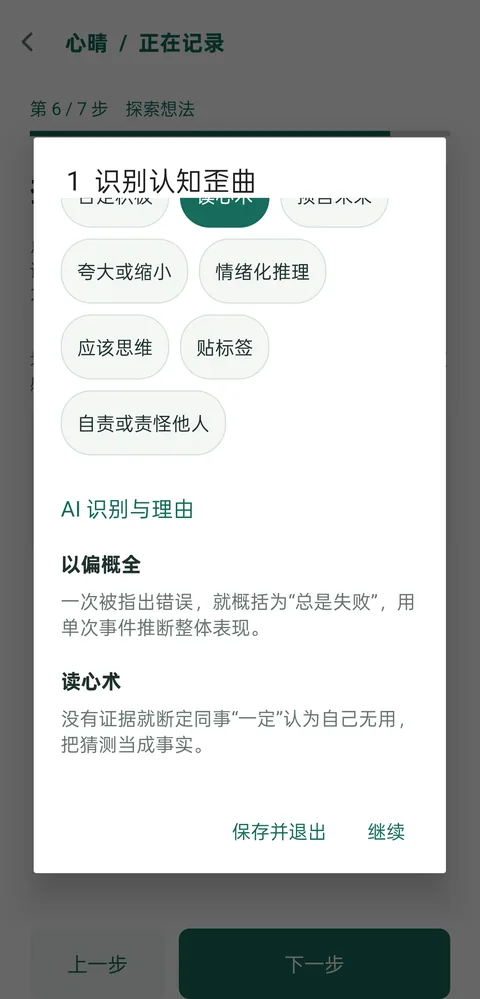
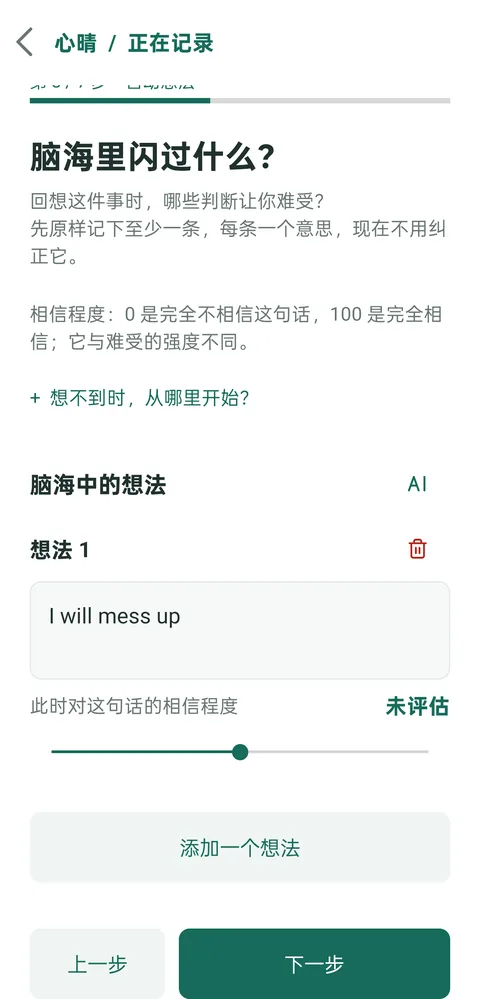
Replace outdated AI screenshot with current UI

diff --git a/README.md b/README.md
@@ -10,9 +10,9 @@
 
 ## 界面预览
 
-| 情绪评分 | 选择方法 | AI 辅助示例 |
+| 情绪评分 | 选择方法 | AI 求助入口 |
 | :---: | :---: | :---: |
-| <img src="docs/screenshots/flow.webp" alt="情绪评分页面" width="220"> | <img src="docs/screenshots/methods.webp" alt="想法探索中的方法列表" width="220"> | <img src="docs/screenshots/ai.webp" alt="AI 对认知歪曲的建议" width="220"> |
+| <img src="docs/screenshots/flow.webp" alt="情绪评分页面" width="220"> | <img src="docs/screenshots/methods.webp" alt="想法探索中的方法列表" width="220"> | <img src="docs/screenshots/ai.webp" alt="自动想法页面的 AI 求助入口" width="220"> |
 
 ## 从源码安装
 
